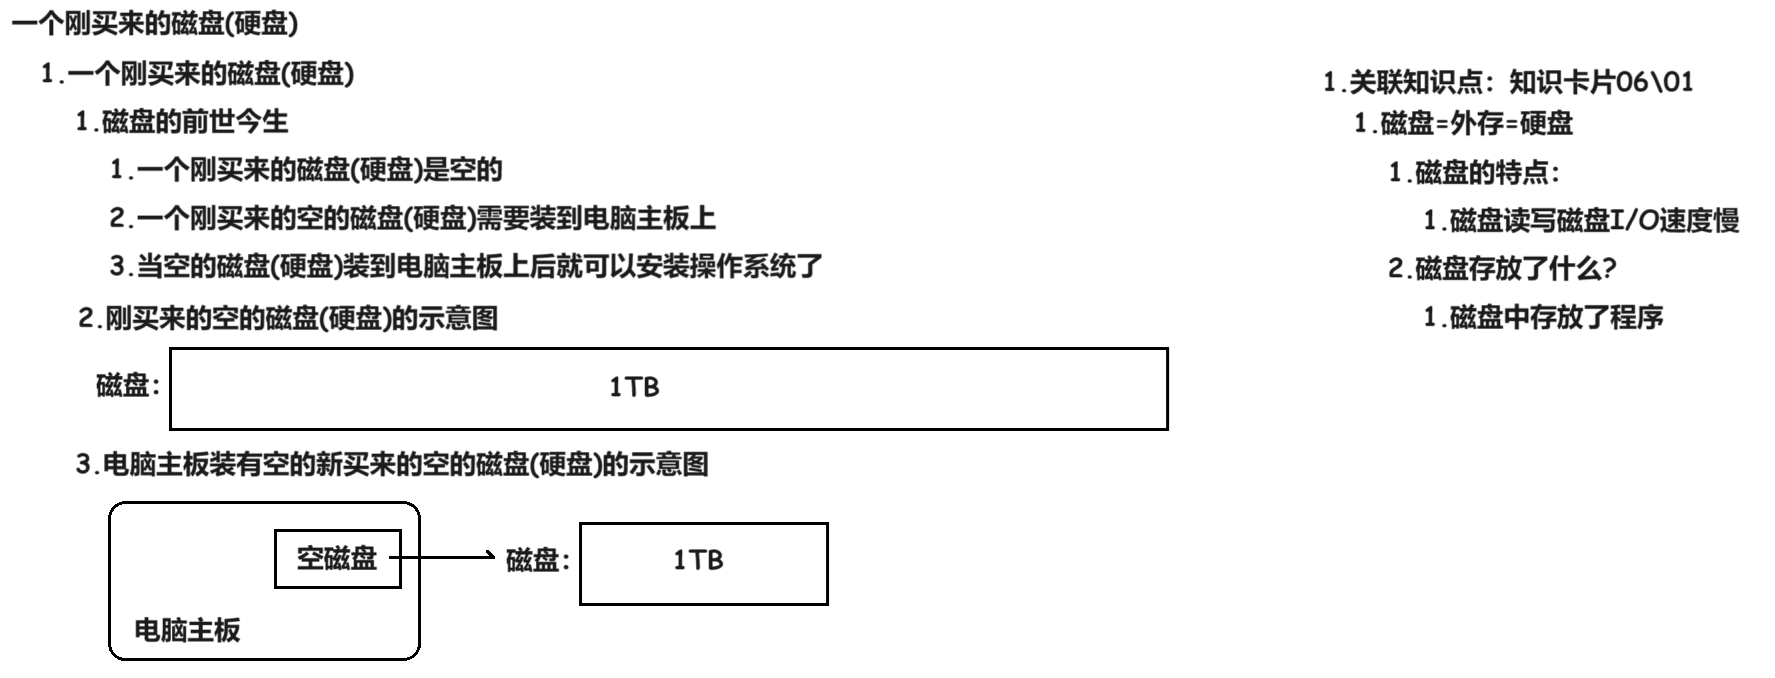
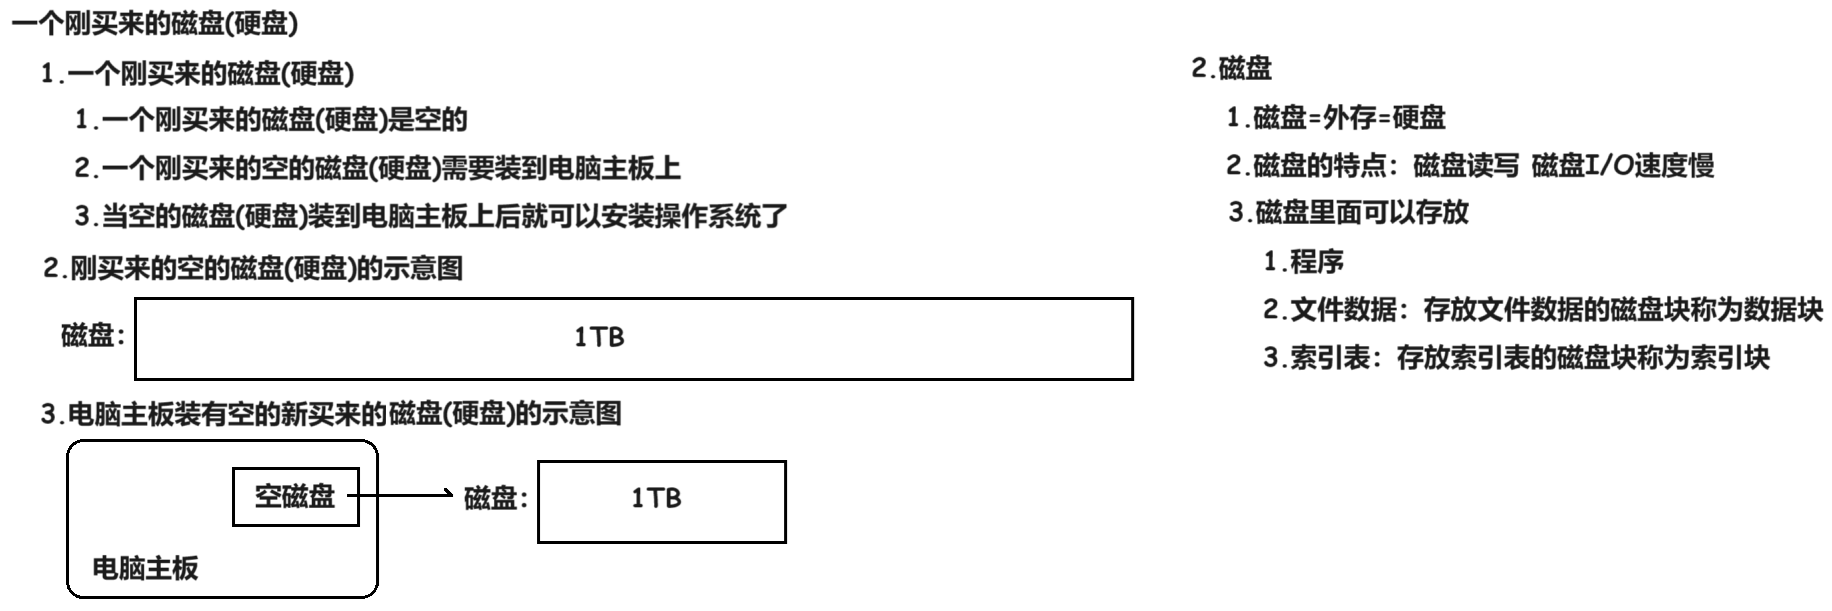
240217

diff --git a/02 OS知识点/01 知识卡片/01 已归档/05 操作系统引导(boot) 240217/02 Doc.md b/02 OS知识点/01 知识卡片/01 已归档/05 操作系统引导(boot) 240217/02 Doc.md
@@ -38,13 +38,13 @@
 
 #### 01 一个刚买来的磁盘(硬盘)
 
-<img src="https://cvp.oss-cn-shanghai.aliyuncs.com/picgo/202402041658849.png" alt="image-20240204165845629" style="zoom:50%;" />
+<img src="https://cvp.oss-cn-shanghai.aliyuncs.com/picgo/202402171711289.png" alt="image-20240217171106151" style="zoom:50%;" />
 
 
 
 
 
-### 03_02 安装了操作系统后的磁盘(硬盘)
+### 03 安装了操作系统后的磁盘(硬盘)
 
 <img src="https://cvp.oss-cn-shanghai.aliyuncs.com/picgo/202402171645741.png" alt="image-20240217164531614" style="zoom: 50%;" />
 
